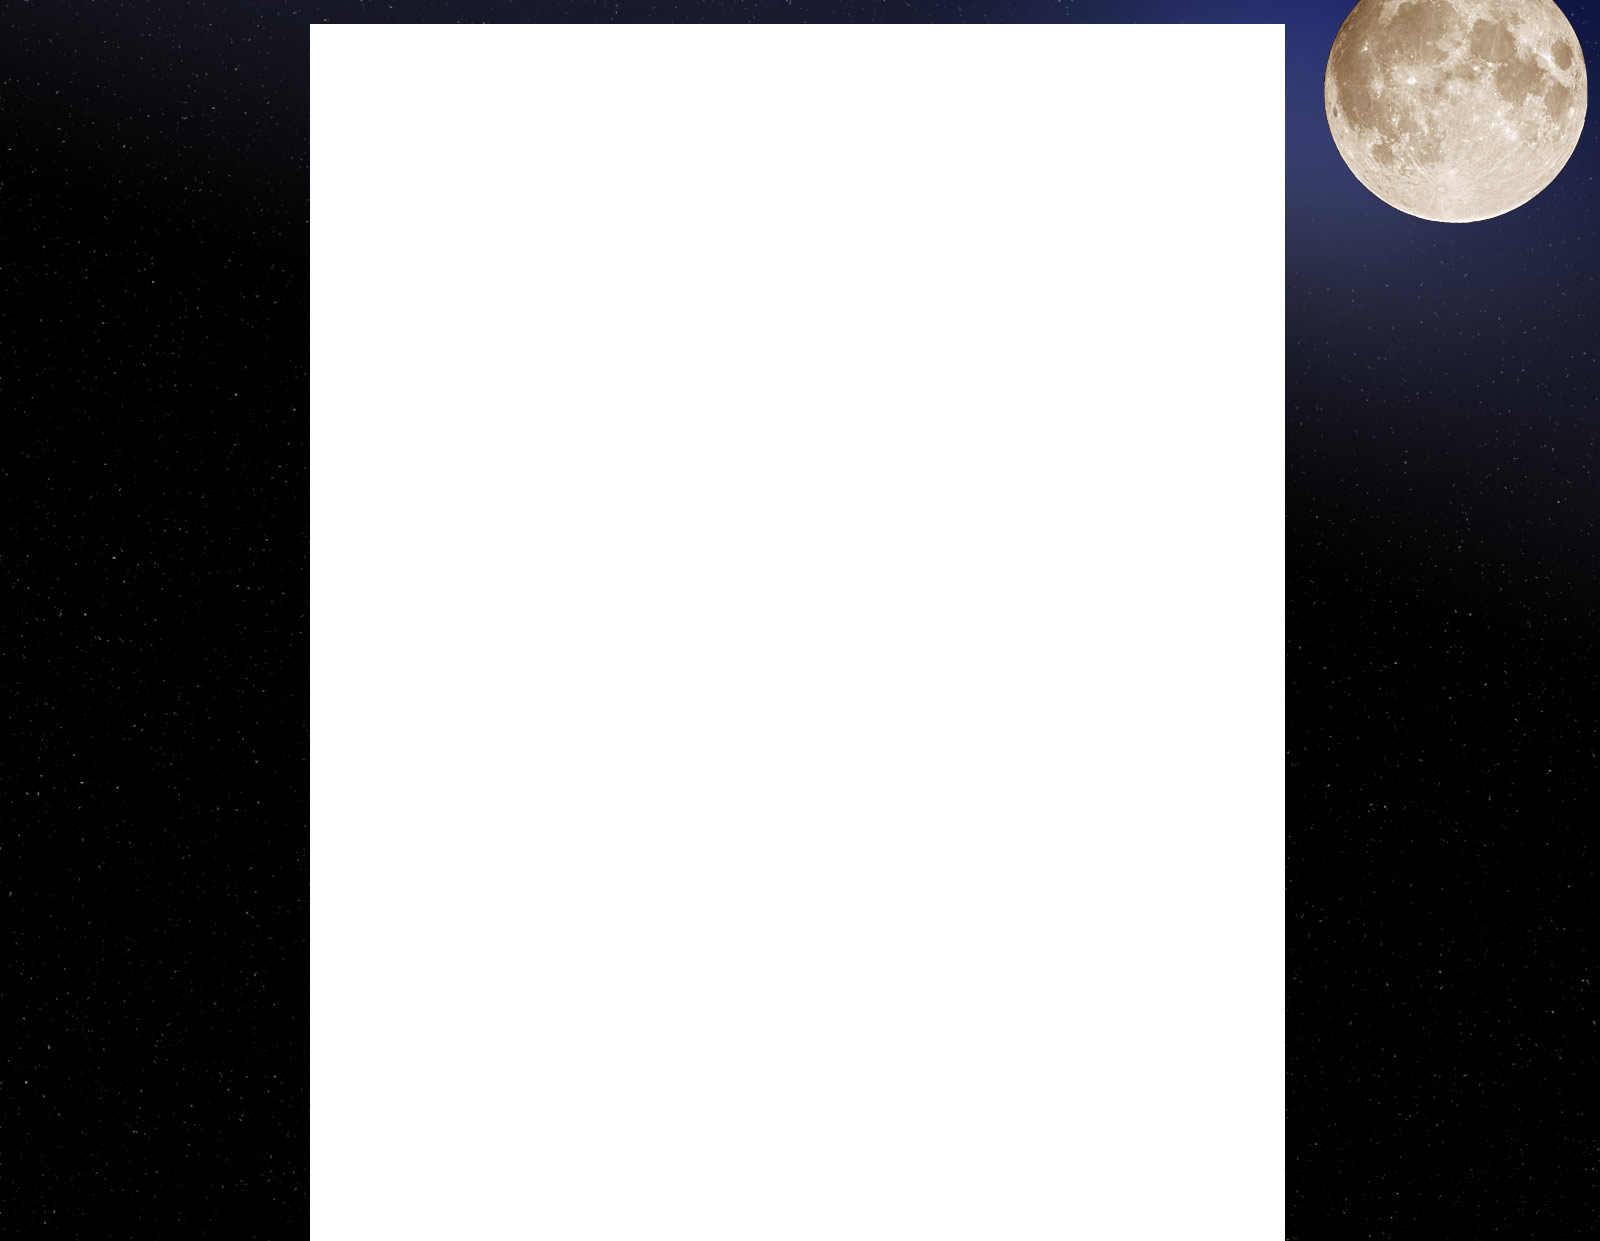
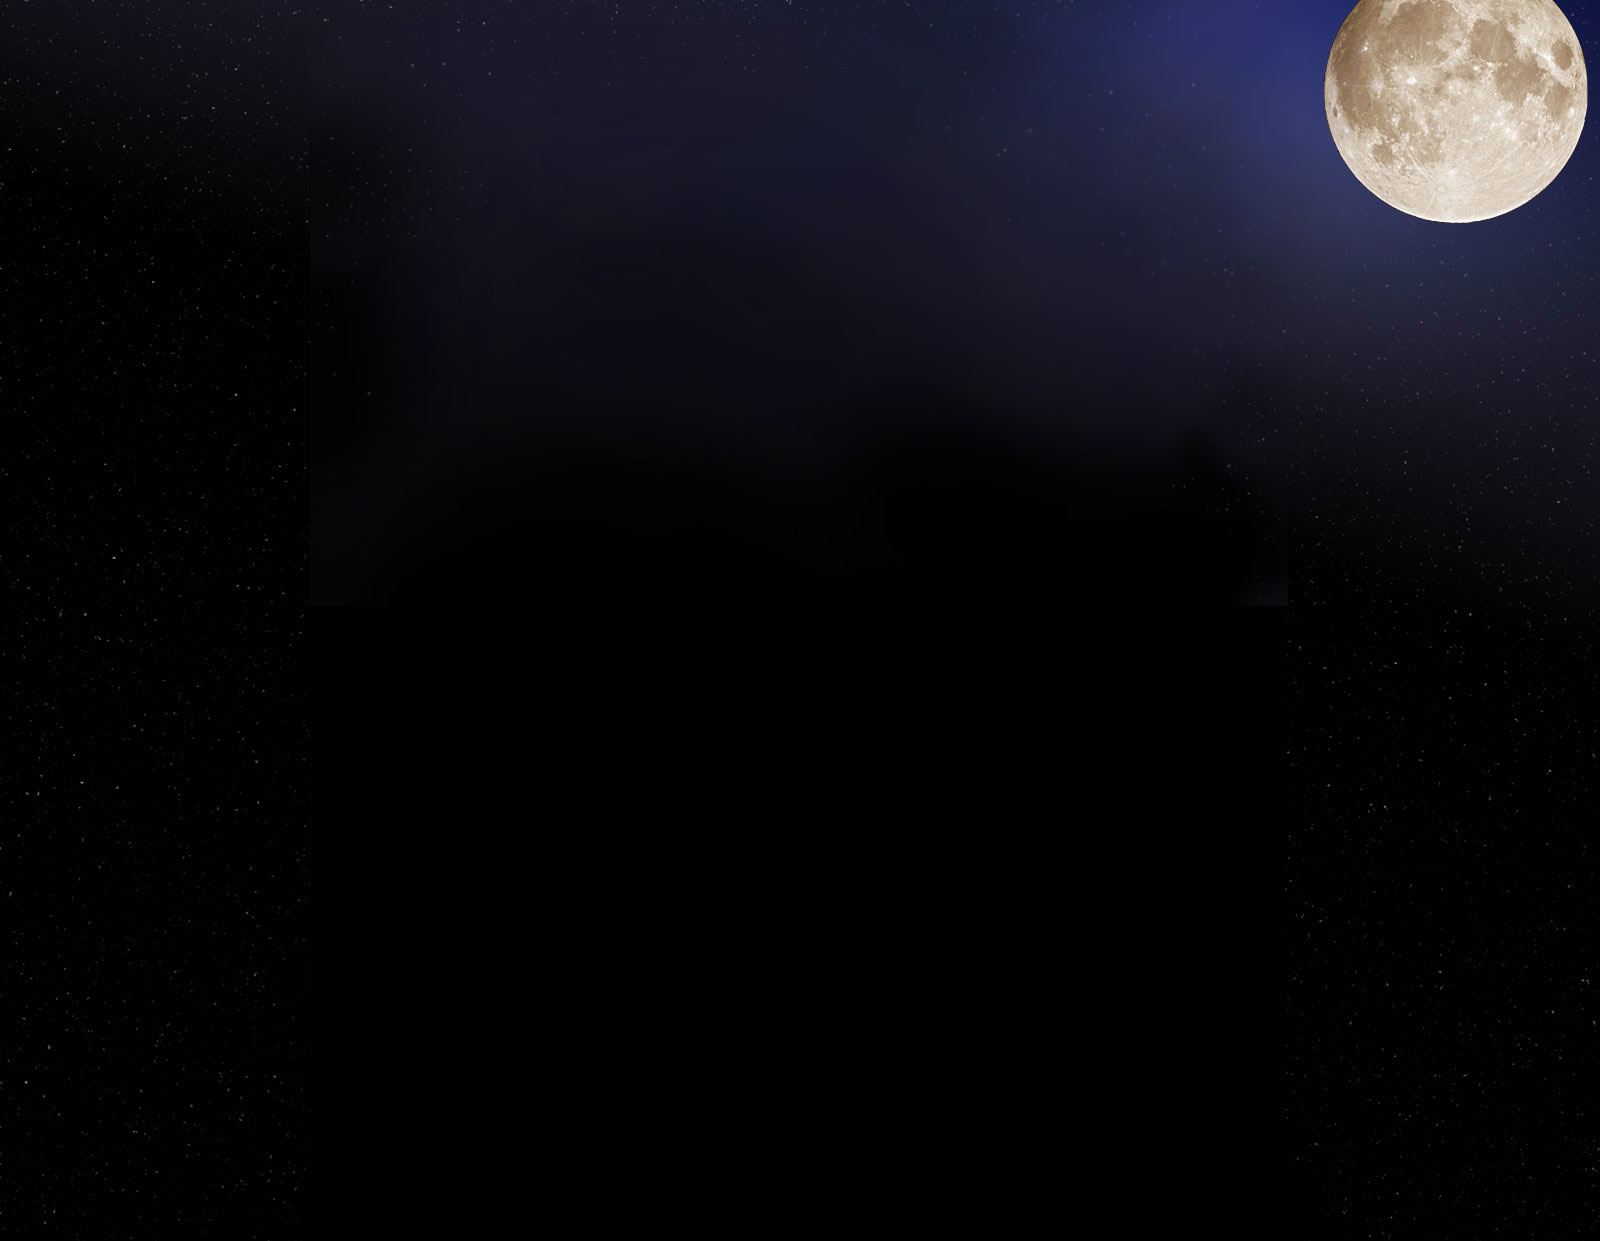
Tweaks for ThemeDesigner backrounds
BugID: 47956 - Replace default background for Oasis skin with full-width ones
BugID: 50225 - Change background colours in Theme Designer

diff --git a/extensions/wikia/Oasis/Oasis_setup.php b/extensions/wikia/Oasis/Oasis_setup.php
@@ -123,7 +123,7 @@ $wgOasisThemes = array(
 		"page-opacity" => "100"
 	),
 	'babygirl' => array(
-		"color-body" => "#381B29",
+		"color-body" => "#000000",
 		"color-page" => "#FFFFFF",
 		"color-buttons" => "#6F027C",
 		"color-links" => "#6F027C",
@@ -206,7 +206,7 @@ $wgOasisThemes = array(
 		"page-opacity" => "100"
 	),
 	'police' => array(
-		"color-body" => "#1A1A1A",
+		"color-body" => "#000000",
 		"color-page" => "#0F142F",
 		"color-buttons" => "#1A52AC",
 		"color-links" => "#D6AD0B",
